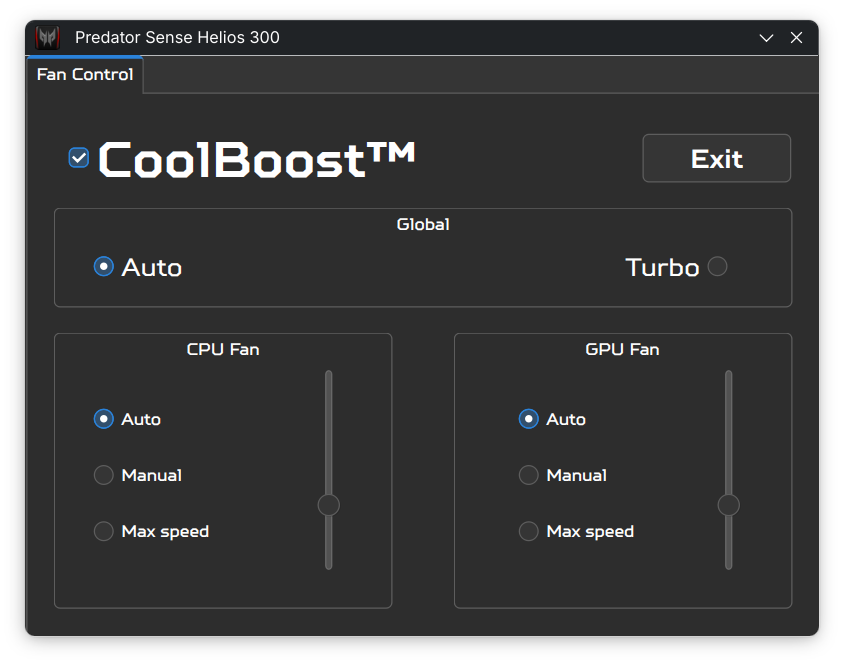
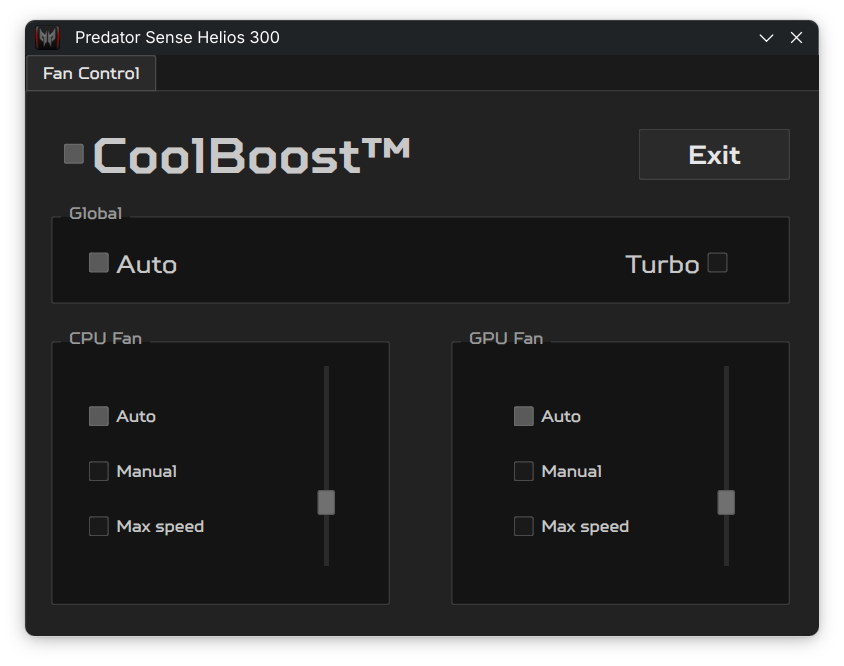
Add modern dark stylesheet and apply it

diff --git a/main.py b/main.py
@@ -199,6 +199,97 @@ def persist_coolboost_state(enabled):
         print("Warning: failed to persist CoolBoost state:", exc)
 
 
+def build_modern_dark_stylesheet():
+    """Flat minimal dark grey UI (no blue accents)."""
+    return """
+QDialog {
+    background-color: #1a1a1a;
+    color: #d4d4d4;
+}
+QTabWidget::pane {
+    border: 1px solid #3a3a3a;
+    border-radius: 2px;
+    background-color: #222222;
+    top: -1px;
+}
+QTabBar::tab {
+    background: #1f1f1f;
+    color: #9a9a9a;
+    border: 1px solid #3a3a3a;
+    padding: 6px 12px;
+    margin-right: 2px;
+    border-top-left-radius: 2px;
+    border-top-right-radius: 2px;
+}
+QTabBar::tab:selected {
+    background: #2a2a2a;
+    color: #e6e6e6;
+    border-color: #4a4a4a;
+}
+QGroupBox {
+    border: 1px solid #3a3a3a;
+    border-radius: 2px;
+    margin-top: 10px;
+    padding-top: 10px;
+    background-color: #141414;
+}
+QGroupBox::title {
+    subcontrol-origin: margin;
+    left: 8px;
+    padding: 0 4px;
+    color: #9a9a9a;
+}
+QRadioButton, QCheckBox {
+    color: #c8c8c8;
+    spacing: 6px;
+}
+QRadioButton::indicator, QCheckBox::indicator {
+    width: 14px;
+    height: 14px;
+}
+QRadioButton::indicator:unchecked, QCheckBox::indicator:unchecked {
+    border: 1px solid #4a4a4a;
+    background-color: #1a1a1a;
+    border-radius: 2px;
+}
+QRadioButton::indicator:checked, QCheckBox::indicator:checked {
+    border: 1px solid #6a6a6a;
+    background-color: #5a5a5a;
+    border-radius: 2px;
+}
+QPushButton {
+    background-color: #2a2a2a;
+    color: #e6e6e6;
+    border: 1px solid #404040;
+    border-radius: 2px;
+    padding: 6px 12px;
+}
+QPushButton:hover {
+    background-color: #333333;
+}
+QPushButton:pressed {
+    background-color: #1f1f1f;
+}
+QSlider::groove:vertical {
+    background: #2a2a2a;
+    width: 4px;
+    border-radius: 0;
+}
+QSlider::handle:vertical {
+    background: #707070;
+    border: 1px solid #5a5a5a;
+    height: 18px;
+    margin: -2px -5px;
+    border-radius: 2px;
+}
+QToolTip {
+    border: 1px solid #404040;
+    background-color: #1a1a1a;
+    color: #d4d4d4;
+}
+"""
+
+
 if not ensure_supported_hardware():
     sys.exit(1)
 
@@ -226,10 +317,11 @@ palette.setColor(QPalette.ColorRole.Text, Qt.GlobalColor.white)
 palette.setColor(QPalette.ColorRole.Button, QColor(53, 53, 53))
 palette.setColor(QPalette.ColorRole.ButtonText, Qt.GlobalColor.white)
 palette.setColor(QPalette.ColorRole.BrightText, Qt.GlobalColor.red)
-palette.setColor(QPalette.ColorRole.Link, QColor(42, 130, 218))
-palette.setColor(QPalette.ColorRole.Highlight, QColor(42, 130, 218))
+palette.setColor(QPalette.ColorRole.Link, QColor(140, 140, 140))
+palette.setColor(QPalette.ColorRole.Highlight, QColor(70, 70, 70))
 palette.setColor(QPalette.ColorRole.HighlightedText, Qt.GlobalColor.black)
 app.setPalette(palette)
+app.setStyleSheet(build_modern_dark_stylesheet())
 
 # Required for the app to have its icon when bundled with PyInstaller
 def resource_path(relative_path):
